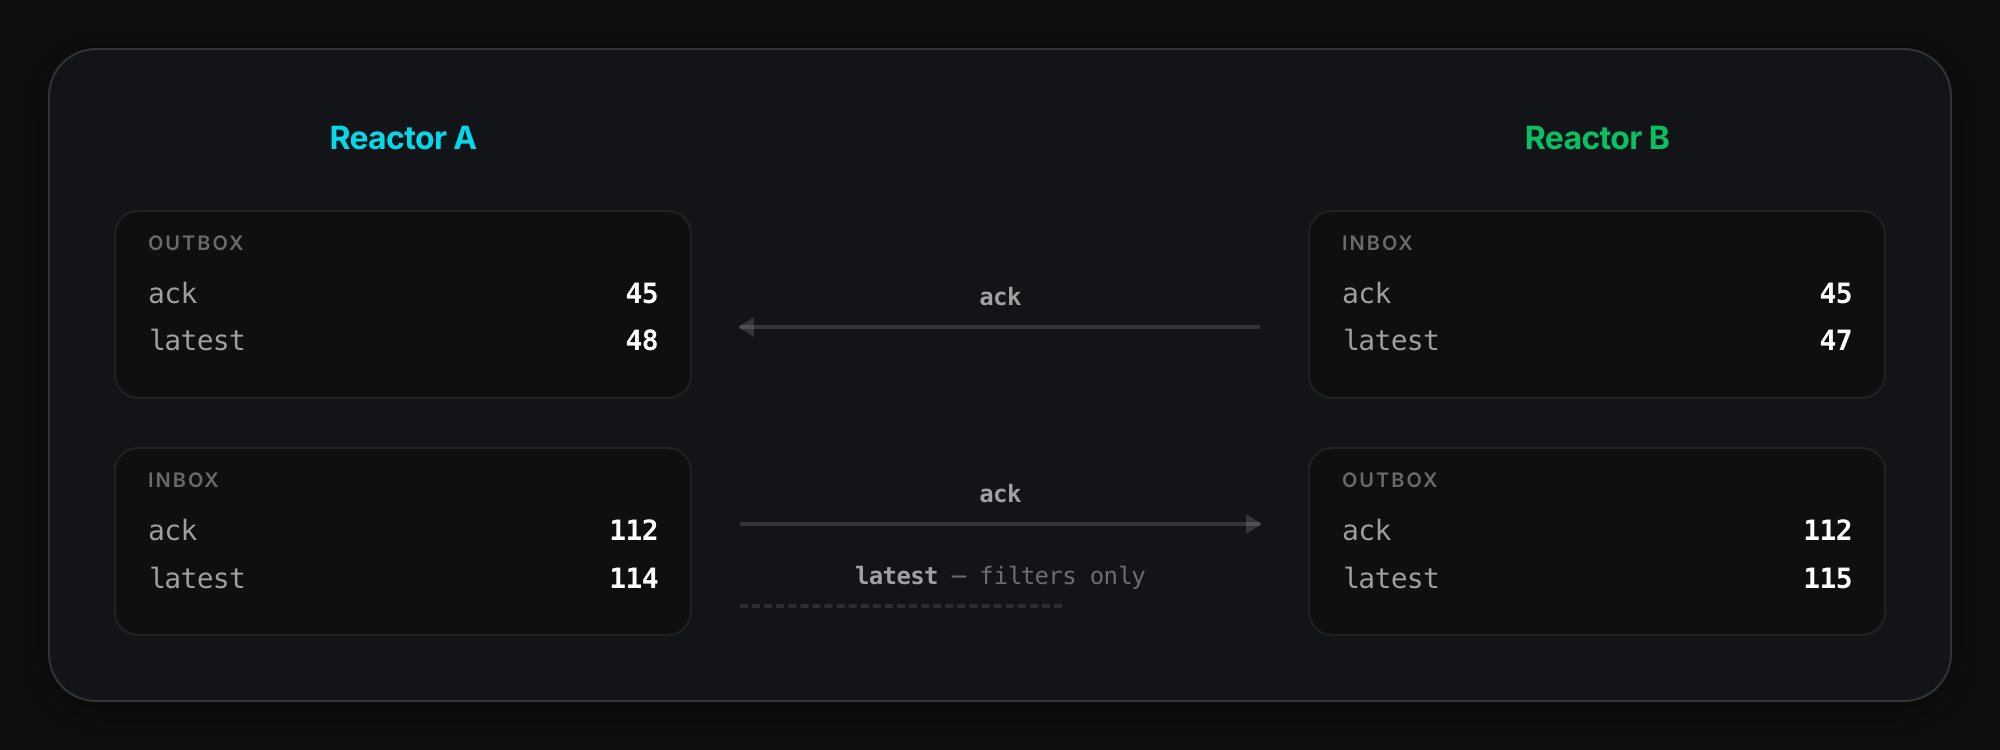
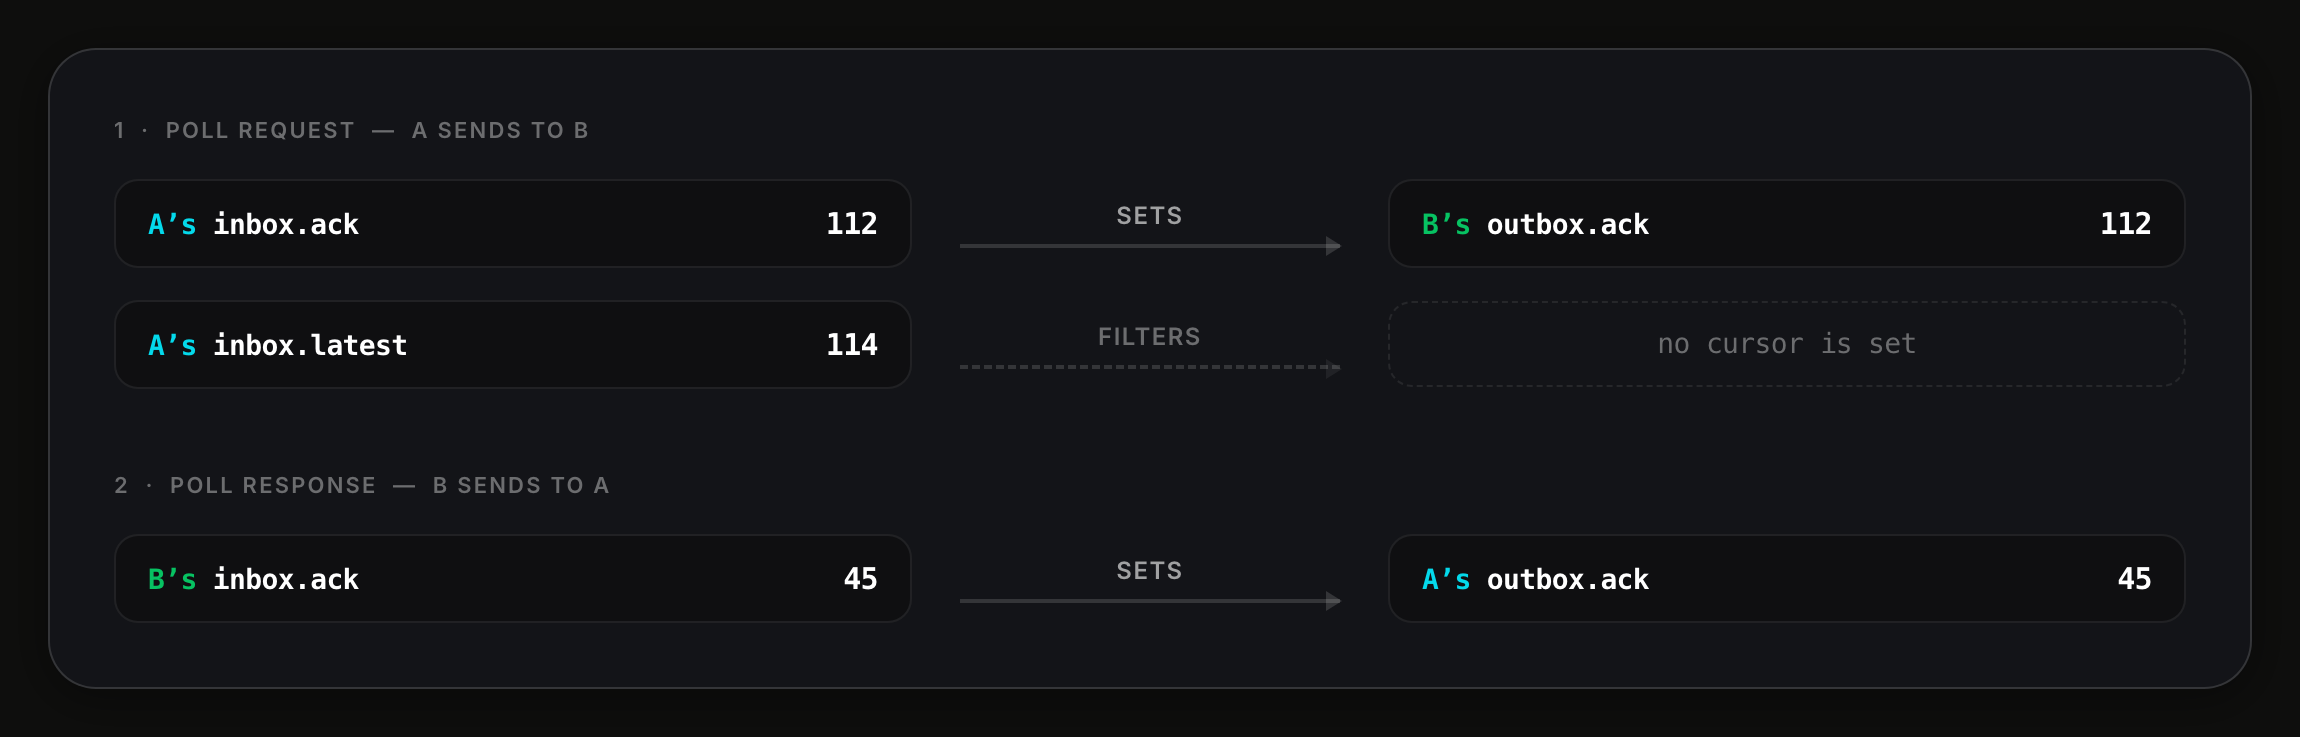
rebuild: poll slide as ordered steps, uniform arrow direction

diff --git a/diagrams/pages/poll-piggyback-acks.html b/diagrams/pages/poll-piggyback-acks.html
@@ -9,88 +9,84 @@
   <link rel="stylesheet" href="../css/base.css">
   <link rel="stylesheet" href="../css/components.css">
   <style>
-    /* Both mailboxes on both sides, paired so each arrow is horizontal: A's outbox faces
-       B's inbox, A's inbox faces B's outbox.
+    /* Two steps in order, request first. Every arrow reads source -> destination, left to
+       right, so the one rule the slide teaches is stated twice in the same shape:
 
-       Colour is reactor identity only — cyan is A, green is B, as everywhere else in the
-       deck. The cursors themselves are neutral, so colour never has to mean two things.
+           the sender's inbox.ack sets the receiver's outbox.ack
 
-       Line style carries the meaning instead: a solid arrow is an ack, which lands and sets
-       the opposite cursor (the value repeats across the row). The dashed arrow is latest,
-       which crosses but sets nothing — B's outbox.latest is B's own scan watermark, so the
-       dashed line stops short of the box rather than touching it. */
+       Earlier versions drew the physical direction of each message instead, which pointed
+       the arrows opposite ways and hid the mapping. Direction now lives in the step label.
+
+       Colour is reactor identity only, and only on the possessive: "A's" cyan, "B's" green.
+       The cursor names are neutral, so you can see the ownership flip across each arrow
+       while the inbox->outbox mapping stays plain. */
     .frame { max-width: 1150px; }
     .card { height: auto; }
     .card-body { flex: none; }
 
     .wrap {
       display: grid;
-      grid-template-columns: 1fr 260px 1fr;
+      grid-template-columns: 1fr 190px 1fr;
       column-gap: var(--space-lg);
-      row-gap: var(--space-lg);
+      row-gap: var(--space-md);
       align-items: center;
     }
 
-    /* the only coloured things on the slide */
-    .who { grid-row: 1; font-size: 16px; font-weight: var(--font-weight-bold); text-align: center; }
-    .who.a { grid-column: 1; color: var(--accent-cyan); }
-    .who.b { grid-column: 3; color: var(--accent-green); }
-
-    .mb {
-      border: 1px solid var(--border-subtle);
-      border-radius: var(--radius-md);
-      background: rgba(0, 0, 0, 0.25);
-      padding: var(--space-sm) var(--space-md) var(--space-md);
-    }
-    .mb-name {
-      font-size: 10px;
+    .step {
+      grid-column: 1 / -1;
+      font-size: 11px;
       font-weight: var(--font-weight-semibold);
       letter-spacing: 0.1em;
       text-transform: uppercase;
       color: var(--text-muted);
-      margin-bottom: 6px;
     }
-    .val {
+    .step.second { margin-top: var(--space-lg); }
+
+    .cur {
+      border: 1px solid var(--border-subtle);
+      border-radius: var(--radius-md);
+      background: rgba(0, 0, 0, 0.25);
+      padding: 10px var(--space-md);
+      font-family: var(--font-mono, 'SF Mono', 'Fira Code', monospace);
       display: flex;
+      align-items: baseline;
       justify-content: space-between;
       gap: var(--space-lg);
-      font-family: var(--font-mono, 'SF Mono', 'Fira Code', monospace);
-      font-size: 14px;
-      line-height: 1.7;
     }
-    .val .k { color: var(--text-secondary); }
-    .val .v { color: var(--text-primary); font-weight: var(--font-weight-semibold); }
+    .cur .name { font-size: 14px; font-weight: var(--font-weight-semibold); color: var(--text-primary); }
+    .cur .own  { font-weight: var(--font-weight-bold); }
+    .cur .own.a { color: var(--accent-cyan); }
+    .cur .own.b { color: var(--accent-green); }
+    .cur .v    { font-size: 15px; font-weight: var(--font-weight-bold); color: var(--text-primary); }
 
-    .hop { grid-column: 2; display: flex; flex-direction: column; align-items: center; gap: var(--space-md); }
-    .wire { display: flex; flex-direction: column; align-items: center; gap: 5px; width: 100%; }
-    .wire-label {
-      font-family: var(--font-mono, 'SF Mono', 'Fira Code', monospace);
+    /* nothing lands here */
+    .cur.none {
+      border-style: dashed;
+      background: transparent;
+      justify-content: center;
+    }
+    .cur.none .name { color: var(--text-muted); font-weight: var(--font-weight-medium); }
+
+    .hop { grid-column: 2; display: flex; flex-direction: column; align-items: center; gap: 5px; }
+    .hop-verb {
       font-size: 12px;
       font-weight: var(--font-weight-semibold);
+      letter-spacing: 0.06em;
+      text-transform: uppercase;
       color: var(--text-secondary);
     }
-    .wire-label .note { color: var(--text-muted); font-weight: var(--font-weight-medium); }
-
+    .hop.soft .hop-verb { color: var(--text-muted); }
     .arrow { position: relative; width: 100%; height: 2px; background: var(--border-glass); }
     .arrow::after {
       content: '';
-      position: absolute; top: 50%;
+      position: absolute; right: -1px; top: 50%;
       transform: translateY(-50%);
       border-top: 5px solid transparent;
       border-bottom: 5px solid transparent;
+      border-left: 8px solid var(--border-glass);
     }
-    .arrow.to-b::after { right: -1px; border-left:  8px solid var(--border-glass); }
-    .arrow.to-a::after { left:  -1px; border-right: 8px solid var(--border-glass); }
-    /* crosses, but lands on nothing: shorter, dashed, no head */
-    .arrow.nowhere {
-      width: 62%;
-      align-self: flex-start;
-      background: none;
-      height: 0;
-      border-top: 2px dashed var(--border-glass);
-      opacity: 0.75;
-    }
-    .arrow.nowhere::after { content: none; }
+    .arrow.soft { background: none; height: 0; border-top: 2px dashed var(--border-glass); }
+    .arrow.soft::after { opacity: 0.45; }
   </style>
 </head>
 <body>
@@ -99,47 +95,41 @@
       <div class="card-body">
         <div class="wrap">
 
-          <div class="who a">Reactor A</div>
-          <div class="who b">Reactor B</div>
+          <div class="step">1 &nbsp;·&nbsp; Poll request &nbsp;&mdash;&nbsp; A sends to B</div>
 
-          <!-- B's inbox ack comes back on the response and sets A's outbox ack -->
-          <div class="mb" style="grid-row: 2; grid-column: 1;">
-            <div class="mb-name">outbox</div>
-            <div class="val"><span class="k">ack</span><span class="v">45</span></div>
-            <div class="val"><span class="k">latest</span><span class="v">48</span></div>
+          <div class="cur" style="grid-row: 2; grid-column: 1;">
+            <span class="name"><span class="own a">A&rsquo;s</span> inbox.ack</span><span class="v">112</span>
           </div>
           <div class="hop" style="grid-row: 2;">
-            <div class="wire">
-              <div class="wire-label">ack</div>
-              <div class="arrow to-a"></div>
-            </div>
+            <div class="hop-verb">sets</div>
+            <div class="arrow"></div>
           </div>
-          <div class="mb" style="grid-row: 2; grid-column: 3;">
-            <div class="mb-name">inbox</div>
-            <div class="val"><span class="k">ack</span><span class="v">45</span></div>
-            <div class="val"><span class="k">latest</span><span class="v">47</span></div>
+          <div class="cur" style="grid-row: 2; grid-column: 3;">
+            <span class="name"><span class="own b">B&rsquo;s</span> outbox.ack</span><span class="v">112</span>
           </div>
 
-          <!-- A's inbox cursors go out on the request; only the ack lands -->
-          <div class="mb" style="grid-row: 3; grid-column: 1;">
-            <div class="mb-name">inbox</div>
-            <div class="val"><span class="k">ack</span><span class="v">112</span></div>
-            <div class="val"><span class="k">latest</span><span class="v">114</span></div>
+          <div class="cur" style="grid-row: 3; grid-column: 1;">
+            <span class="name"><span class="own a">A&rsquo;s</span> inbox.latest</span><span class="v">114</span>
           </div>
-          <div class="hop" style="grid-row: 3;">
-            <div class="wire">
-              <div class="wire-label">ack</div>
-              <div class="arrow to-b"></div>
-            </div>
-            <div class="wire">
-              <div class="wire-label">latest <span class="note">&mdash; filters only</span></div>
-              <div class="arrow to-b nowhere"></div>
-            </div>
+          <div class="hop soft" style="grid-row: 3;">
+            <div class="hop-verb">filters</div>
+            <div class="arrow soft"></div>
           </div>
-          <div class="mb" style="grid-row: 3; grid-column: 3;">
-            <div class="mb-name">outbox</div>
-            <div class="val"><span class="k">ack</span><span class="v">112</span></div>
-            <div class="val"><span class="k">latest</span><span class="v">115</span></div>
+          <div class="cur none" style="grid-row: 3; grid-column: 3;">
+            <span class="name">no cursor is set</span>
+          </div>
+
+          <div class="step second">2 &nbsp;·&nbsp; Poll response &nbsp;&mdash;&nbsp; B sends to A</div>
+
+          <div class="cur" style="grid-row: 5; grid-column: 1;">
+            <span class="name"><span class="own b">B&rsquo;s</span> inbox.ack</span><span class="v">45</span>
+          </div>
+          <div class="hop" style="grid-row: 5;">
+            <div class="hop-verb">sets</div>
+            <div class="arrow"></div>
+          </div>
+          <div class="cur" style="grid-row: 5; grid-column: 3;">
+            <span class="name"><span class="own a">A&rsquo;s</span> outbox.ack</span><span class="v">45</span>
           </div>
 
         </div>
